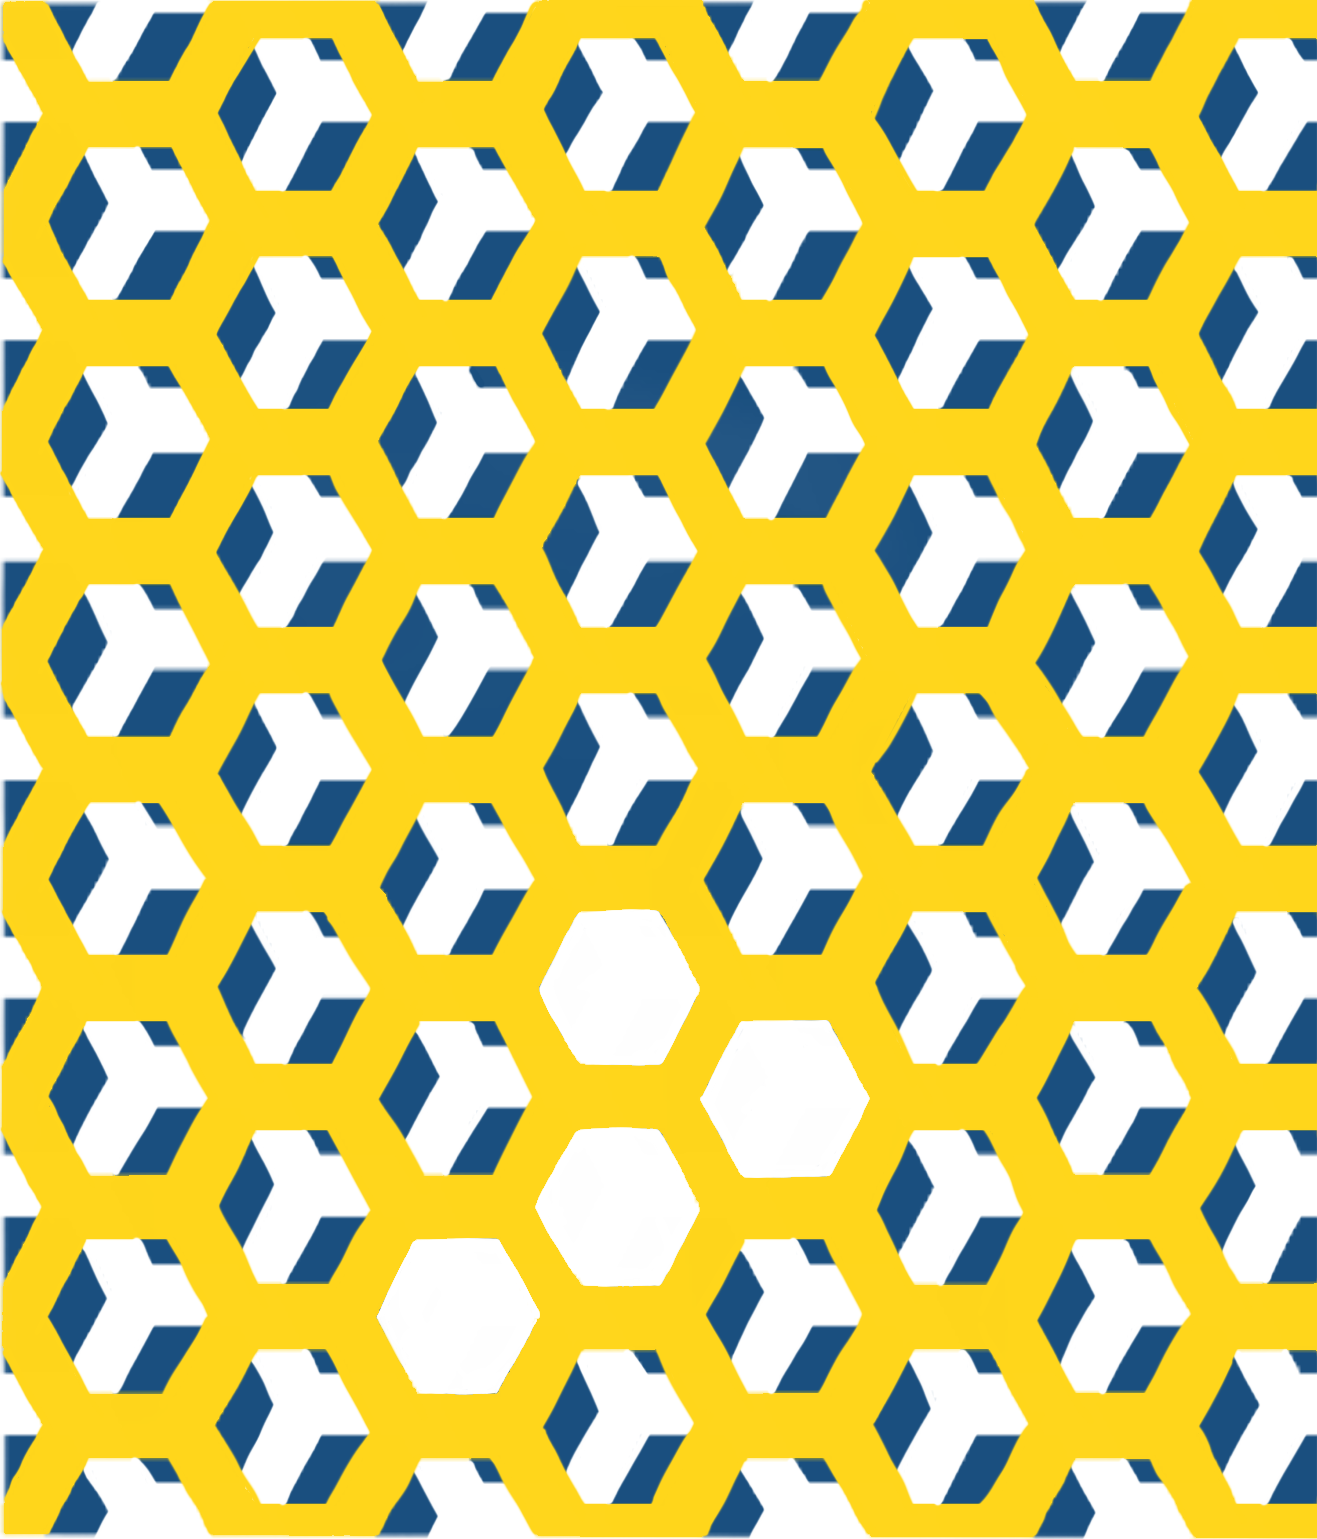
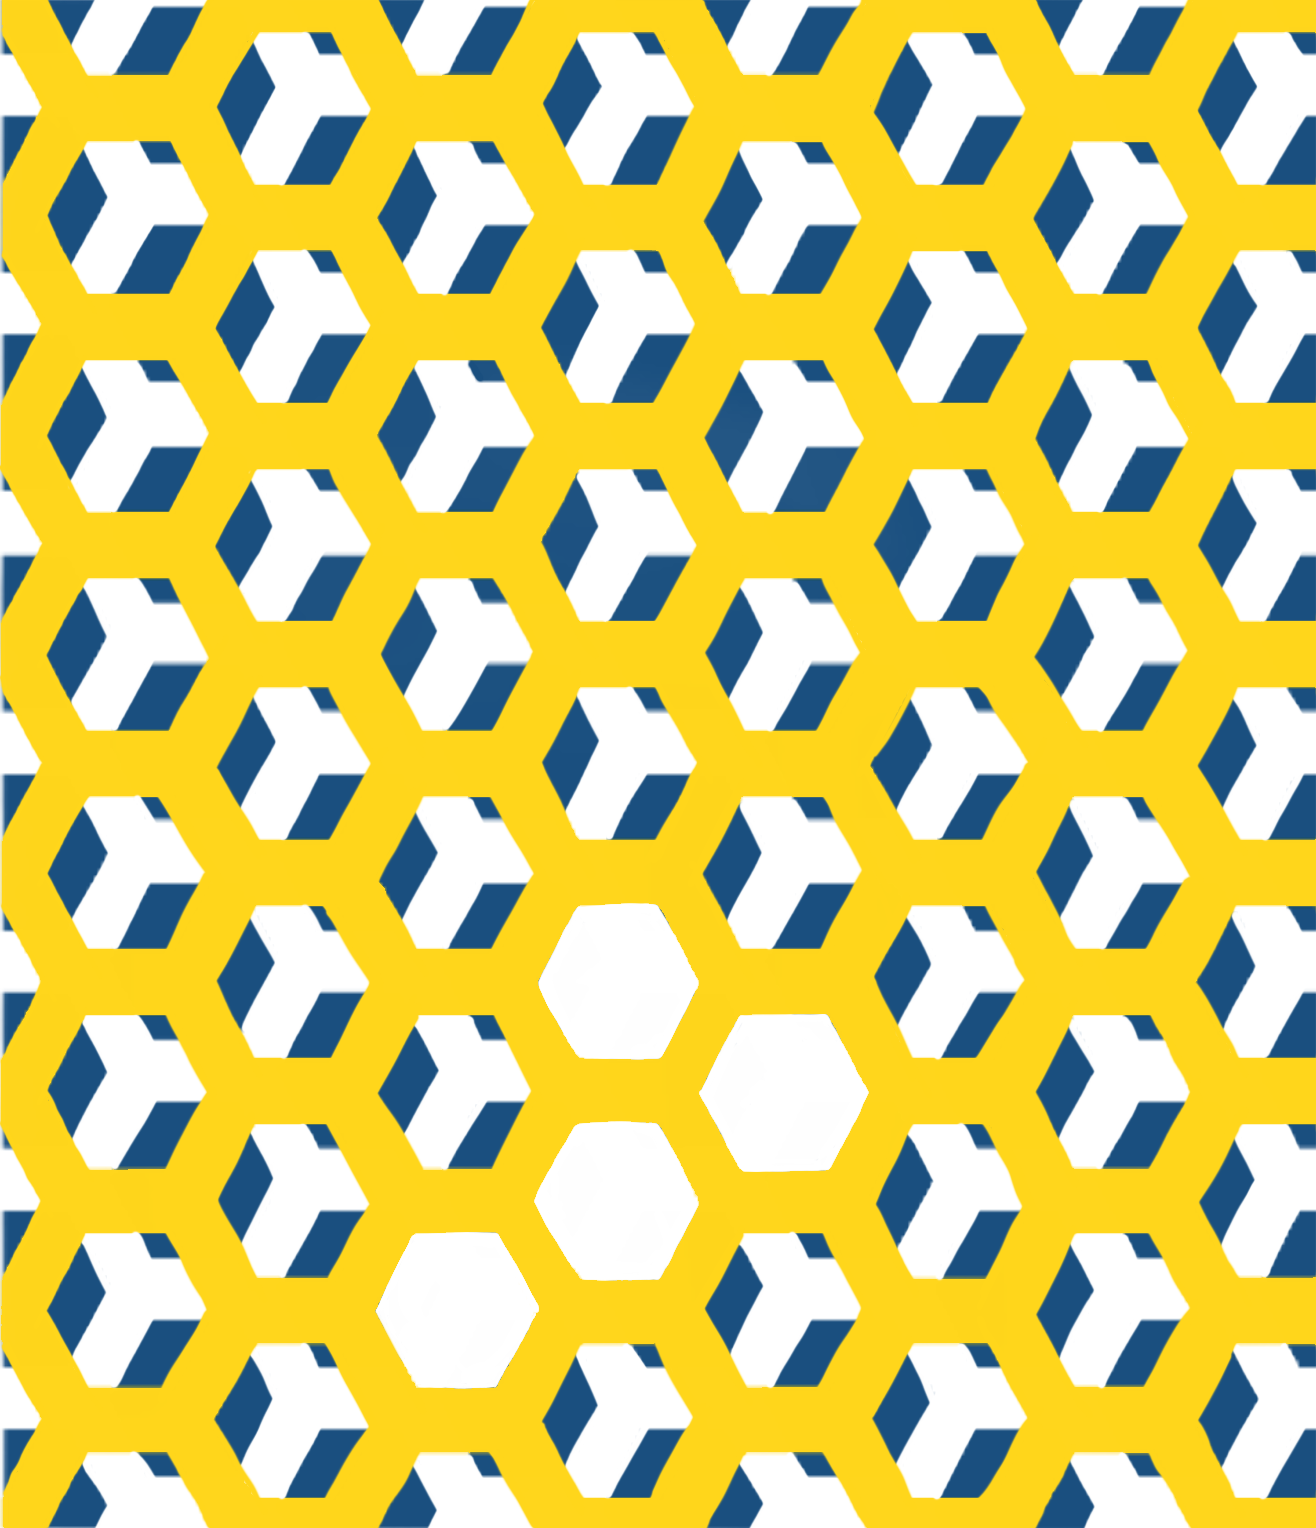
trying to fix the cropping on the background

diff --git a/templates/base.html b/templates/base.html
@@ -15,10 +15,9 @@
 				<style>
 					body {
 						background-image: url("{{ url_for('static', filename='images/background.png') }}");
-						background-size: 300px 300px;
+						background-size: auto auto;
 						background-repeat: repeat;
 					}
-
 					.active {
 						text-shadow: #FC0 1px 0 10px;
 					}
